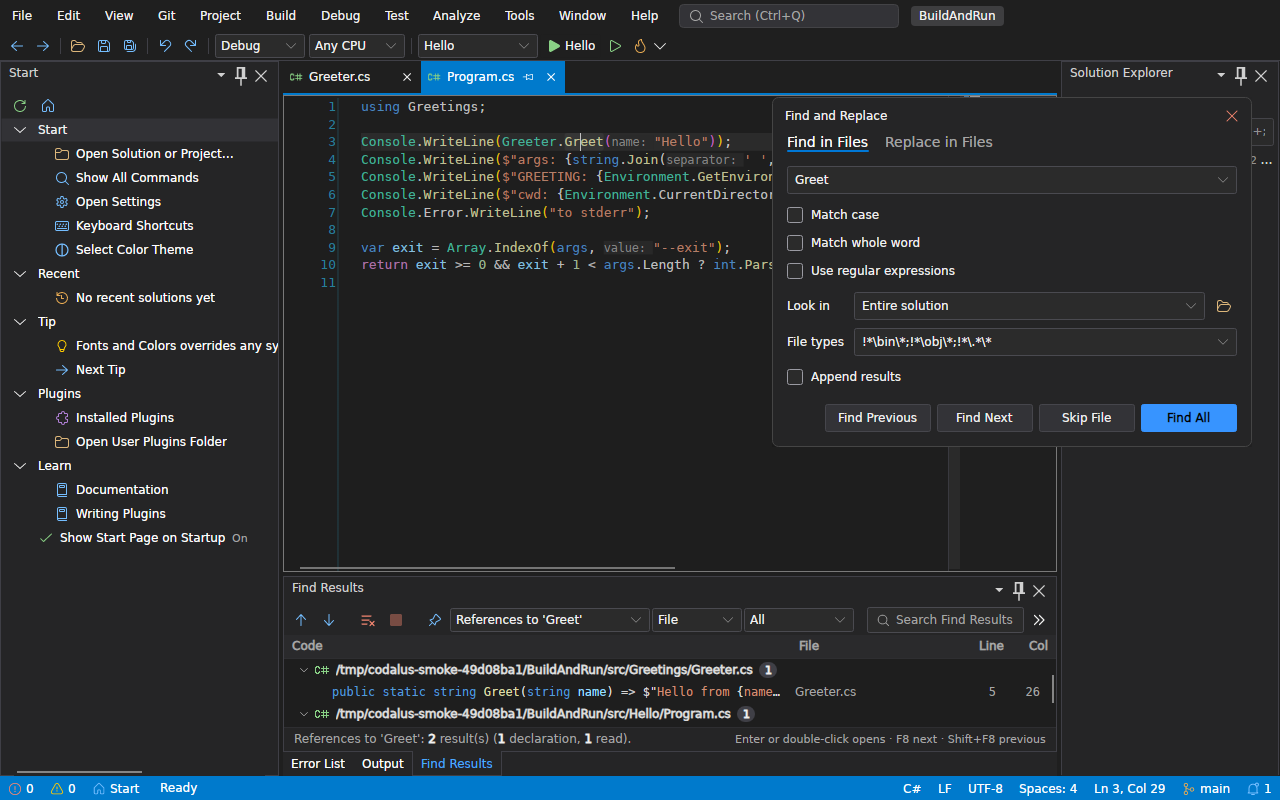
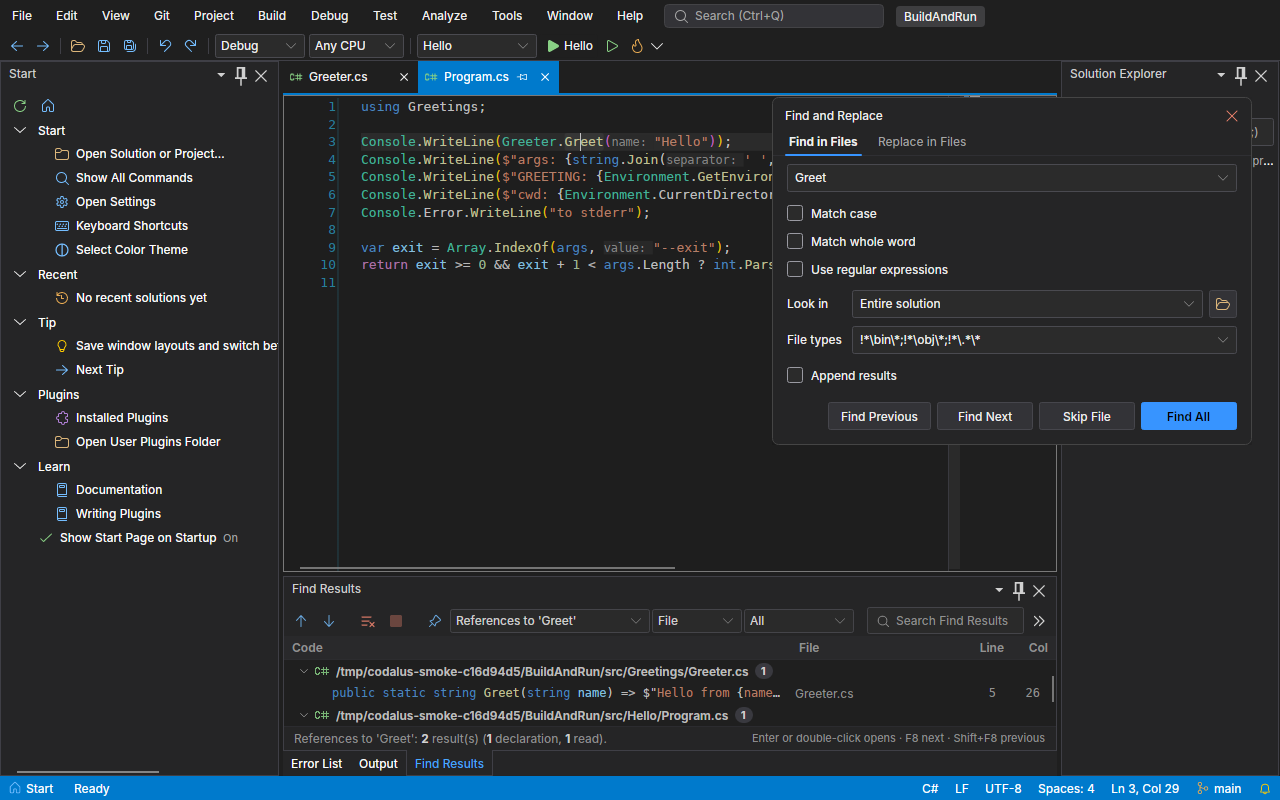
Website: the pictures that show the tab strips' new line
find-in-files.png, code-search.png, web-http.png and profiler.png show Find
and Replace's, Code Search's, HTTP Response's and a profiling report's tabs,
which now have the control set's line under them (and, in Find and Replace
and Code Search, the set's tab look). Taken by the smoke test of this branch
on Linux under Xvfb, at the site's 1280x800 in Classic Dark, in the states the
current pictures show: CODALUS_SMOKE_ONLY=shell.window, shell.themes,
projects.open, language.ready, editor.highlighting, editor.navigation,
editor.findInFiles and navigation.codeSearch for the first two (Find Results
on the references, as before), and web.http and profiler.cpu for the others.
tests/Codalus.Website.Tests passes (12, the export with every link resolved).

diff --git a/docs/roadmap.md b/docs/roadmap.md
@@ -3080,4 +3080,4 @@ These are the maintainer decisions this plan depends on. Update the status colum
 - 2026-10-21: the linux-arm64 package's smoke test crashed in its first-run setup (develop run 39513048761), with a segmentation fault the core dump placed in Skia's `SkMemoryStream::read`, called from `SkiaTypeface.TryGetStream`, copying a font file that had been unmapped: the start-window crash of 2026-10-16 again, from a blocking collection on another thread (`GCLatencyMode.Batch` ruled out only background ones). The shell now installs its own system font collection (`ShellSystemFonts`, under Avalonia's `fonts:SystemFonts` key, mirroring its internal `SystemFontCollection`), which makes the same synthetic bold and italic faces as Avalonia's (the nearest face with Skia's simulations, created again from a copy of the font file) but copies the file with Skia's stream kept alive until the read is done; it reaches the font manager's and the Skia typeface's unstable members through `UnsafeAccessor`. A first attempt asked the font manager for the style instead of copying the file, and drew a SemiBold in the family's wider Bold face (the setup window's text cut off on #99's CI). It also files a face the platform slanted or emboldened under the style the platform reports, not its file's: an italic drawn first had become the family's regular face. The Batch setting is gone. `TODO(issue)`: drop the collection once Avalonia's `TryGetStream` keeps its stream alive.
 - 2026-10-21: a Blazor WebAssembly page opens only after the debugging proxy's handshake ([ADR 0026's amendment](adr/0026-browser-debugging.md#amendment-2026-10-21-the-page-opens-after-the-proxys-handshake)). js-debug opened the page as soon as it had attached, and on a loaded machine the app's document came before the proxy had registered `globalThis.dotnetDebugger` for it. The runtime then started without pausing for the proxy, which never reported it, and no C# breakpoint bound: this is the stall in 2026-10-16's `blazor.wasmDebug` entry (its js-debug log shows the order), and by their symptoms the 10-minute `BlazorWasmTests` failures on Linux CI too. `JsDebugAdapter` now has js-debug leave the page blank and opens it itself once the page's session has started. `BrowserDebugTests` reproduces the race with a stand-in proxy whose handshake answers late. The smoke step's second start and that entry's TODO stay until the linux-arm64 smoke test has passed without the second start.
 - 2026-10-21: `LiveTreeShellTests` failed on Linux (#101's run 39550972490): the app's live agent didn't connect (session waiting, the app running), and the app printed "Codalus previewer agent: Connection refused" once. Every plan of a run went through `RunService.ProgramPlan`, whose `AddLiveAgent` gives an Avalonia or WPF app a new `LiveSession` and ends the last one (the only place a session's listener stops). Start Without Debugging and Start Debugging also check the HTTPS development certificate beside the start (`OfferDevCertificateAsync`, not awaited), and the check made a plan only to read `ASPNETCORE_URLS`, on every start of a project without an https URL. The build host answers the two `project/runInfo` requests concurrently; when the check's plan came last, its session replaced the launched one and stopped its listener, so the agent's one attempt was refused and `Live` waited for an app that never came. `RunService.PlanAsync` (both overloads) now has no effects, and only `LaunchPlanAsync` runs the hook: `StartAsync` and every caller that starts the plan (debugging, multiple startup projects, the terminal, folder launch configurations, profiling, Aspire, one framework of a multi-targeted project). A plan made to read it (the certificate check, a `.http` request's host address, the smoke test) can't end a running app's session, and a new reader gets the plan without effects by its plain name; a start that used it would only lack the live agent, which the live tree tests catch. `AddLiveAgent` swaps `Live` with `Interlocked.Exchange`, so of two starts at once each ends the session it replaced and none stays open outside `Live` (a read and then a write ended the same old session twice and left one of the new sessions, and its listener, open); which session `Live` ends on is the last swap's either way, and only the split above keeps a plan nobody launched out of it. `LiveTreeShellTests` now orders the two plans as on CI (the first to reach the hook waits until a second has run, or until the certificate check is over; no sleeps), counts the hook's calls (one per start) and names `Live`'s port and each session's. With the old behavior it failed 4 runs of 4 with the CI's symptom (two calls, the app refused on the launched session's port, `Live` waiting on the other); with the fix it passes. `RunPlanTests` checks that only a start's plan goes through the hook.
-- 2026-10-21: two of M34h's open control-set items built for 0.6 (task #78; [m34h](checkpoints/m34h.md#the-control-set), [design/controls.md](design/controls.md#classes)). A combo box's list draws the design's check beside the chosen row in a 16 px column kept on every row (`ComboBoxItem` gets a control theme of its own, since Fluent's template is one presenter); the editor's navigation bar and editable combo boxes (their lists are histories) opt out on purpose, recorded in the design's differences. Every tab strip gets the design's line under it, in a new token, `Shell.ViewTabs.Rule`, in all sixteen themes (the mockups' soft border, which wasn't a token: Classic's and Harbor's values from the mockups, the derived families' from their `Shell.Grid.Rule` and Harbor's High contrast), covered by the selected tab's underline: `TabControl` gets a control theme (Fluent 12.1.3's template with the strip in a border that draws the line, on top for a bottom strip), and the four `TabStrip`s used as tabs (Find Results' pages, HTTP Response, Find and Replace, Code Search) take a new `TabStrip.viewTabs` class in place of their own item styles, so Find and Replace's and Code Search's tabs now have the set's look (Body size, 28 px, the accent underline). The gallery shows an open list, an editable one, a `TabStrip.viewTabs` and a bottom strip.
+- 2026-10-21: two of M34h's open control-set items built for 0.6 (task #78; [m34h](checkpoints/m34h.md#the-control-set), [design/controls.md](design/controls.md#classes)). A combo box's list draws the design's check beside the chosen row in a 16 px column kept on every row (`ComboBoxItem` gets a control theme of its own, since Fluent's template is one presenter); the editor's navigation bar and editable combo boxes (their lists are histories) opt out on purpose, recorded in the design's differences. Every tab strip gets the design's line under it, in a new token, `Shell.ViewTabs.Rule`, in all sixteen themes (the mockups' soft border, which wasn't a token: Classic's and Harbor's values from the mockups, the derived families' from their `Shell.Grid.Rule` and Harbor's High contrast), covered by the selected tab's underline: `TabControl` gets a control theme (Fluent 12.1.3's template with the strip in a border that draws the line, on top for a bottom strip), and the four `TabStrip`s used as tabs (Find Results' pages, HTTP Response, Find and Replace, Code Search) take a new `TabStrip.viewTabs` class in place of their own item styles, so Find and Replace's and Code Search's tabs now have the set's look (Body size, 28 px, the accent underline). The gallery shows an open list, an editable one, a `TabStrip.viewTabs` and a bottom strip. The website's Find in Files, Code Search, HTTP and profiler pictures, which show these strips, are refreshed from a Linux smoke run of the change (Classic Dark, 1280 × 800).
